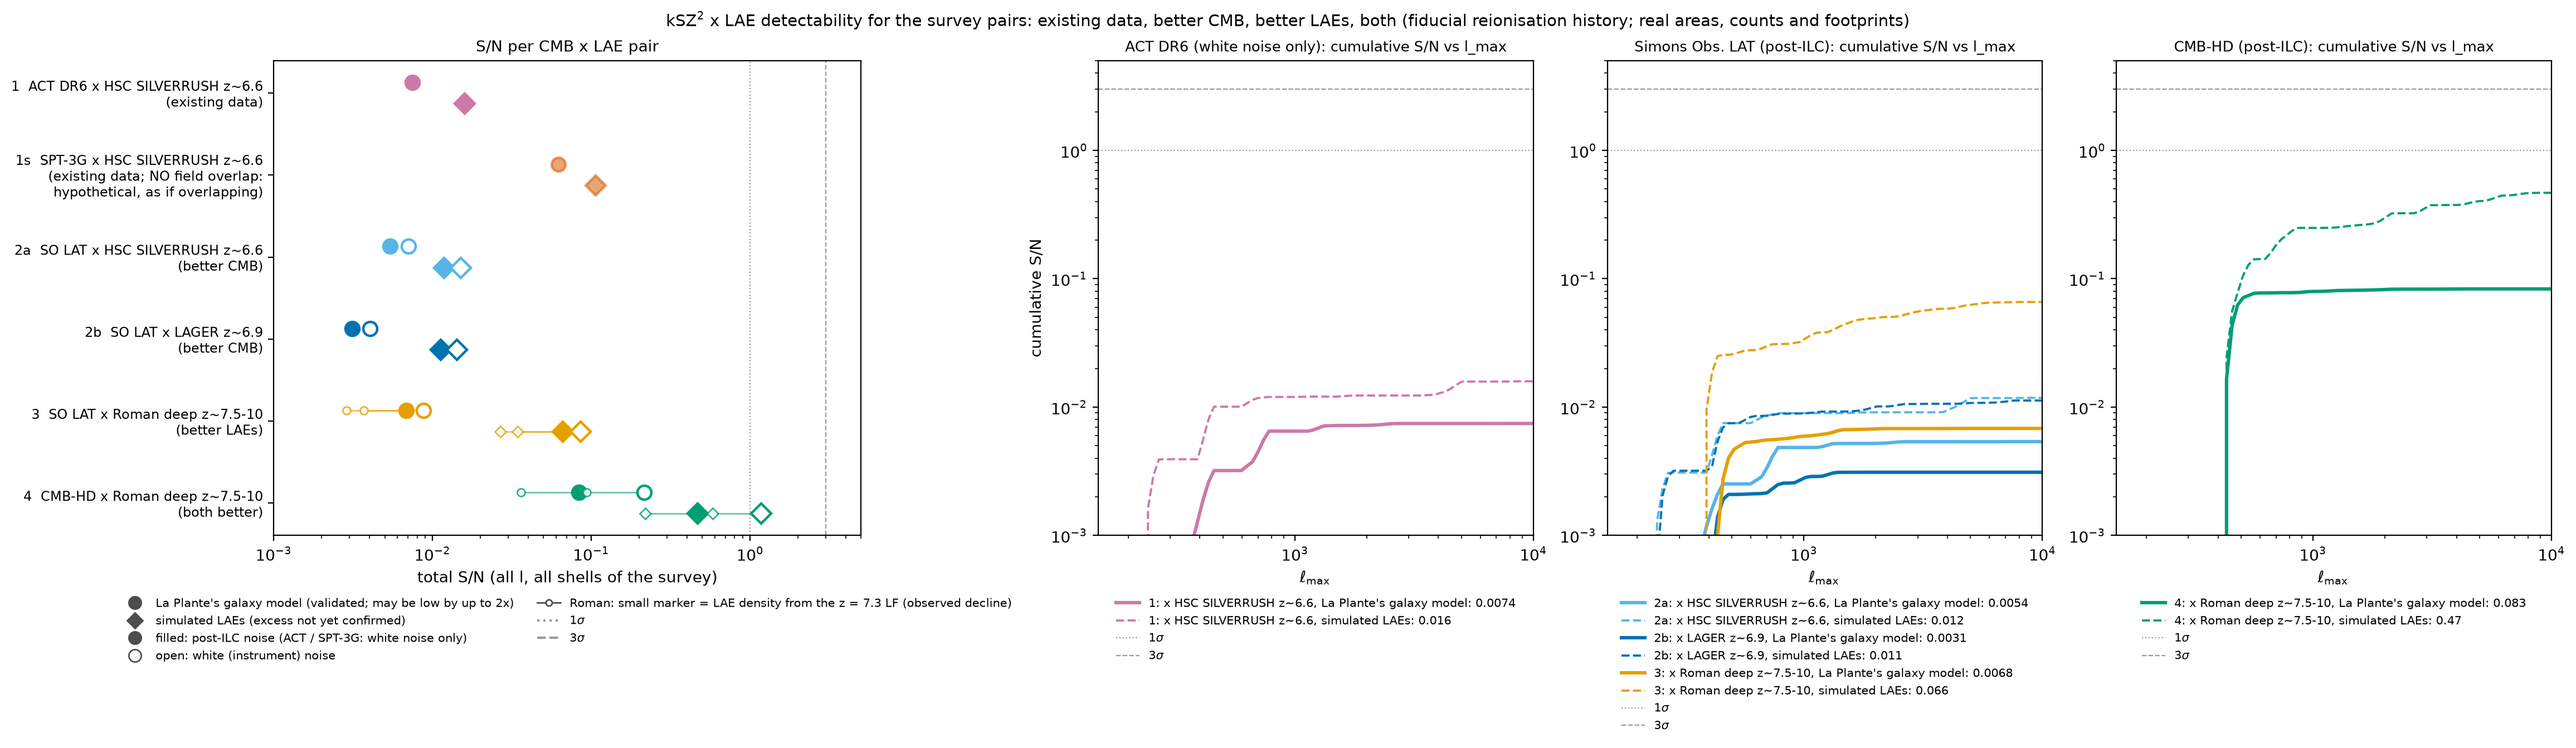
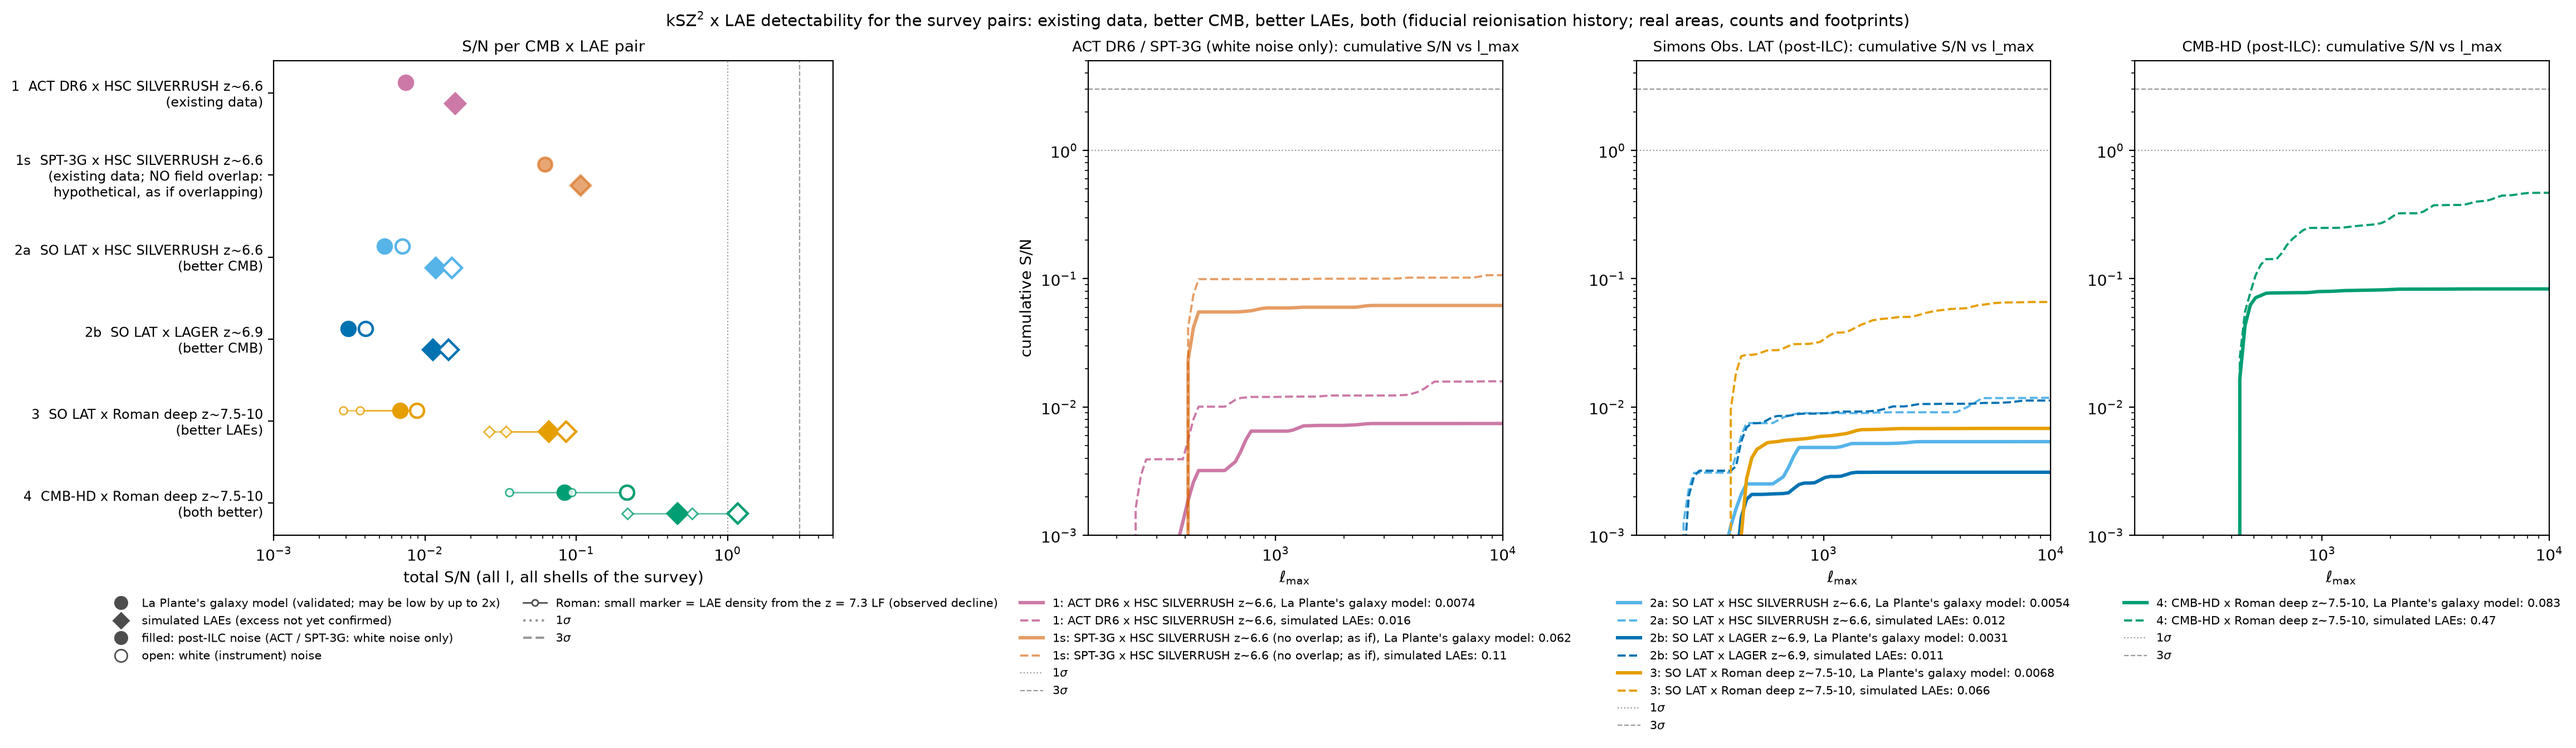
pairs figure: SPT-3G x SILVERRUSH (hypothetical) in the ACT panel

diff --git a/scripts/58_detectability_pairs.py b/scripts/58_detectability_pairs.py
@@ -181,16 +181,19 @@ def main(argv=None):
     a1.legend(handles=h, fontsize=7.5, frameon=False, loc="upper center", bbox_to_anchor=(0.5, -0.11), ncol=2)
 
     # cumulative S/N vs l_max: one panel per CMB experiment (ACT | SO LAT | CMB-HD)
-    for ax, cmb, ttl in zip(cax, ("ACT DR6", "SO", "CMB-HD"), ("ACT DR6 (white noise only)", "Simons Obs. LAT (post-ILC)", "CMB-HD (post-ILC)")):
+    for ax, cmb, ttl in zip(cax, (("ACT DR6", "SPT-3G Main"), ("SO",), ("CMB-HD",)),
+                            ("ACT DR6 / SPT-3G (white noise only)", "Simons Obs. LAT (post-ILC)", "CMB-HD (post-ILC)")):
         for key, label, exp, sname, shells, col in PAIRS:
-            if exp != cmb:
+            if exp not in cmb:
                 continue
-            nkey = "white" if exp == "ACT DR6" else "ilc"
+            nkey = "white" if exp in ("ACT DR6", "SPT-3G Main") else "ilc"
             for (sig, _), ls in zip(SIGNALS, ("-", "--")):
                 sn, cum = res[(key, sname, nkey, sig)]
                 lae = label.splitlines()[0].split(" x ")[1]
                 ax.plot(lgrid, cum, ls, color=col, lw=2.2 if ls == "-" else 1.4,
-                        label=f"{key}: x {lae}, " + ("La Plante's galaxy model" if ls == "-" else "simulated LAEs") + f": {sn:.2g}")
+                        alpha=0.6 if key in HYPOTHETICAL else 1,
+                        label=f"{key}: {label.splitlines()[0]}" + (" (no overlap; as if)" if key in HYPOTHETICAL else "") + ", "
+                              + ("La Plante's galaxy model" if ls == "-" else "simulated LAEs") + f": {sn:.2g}")
         ax.axhline(1, color="0.6", lw=0.8, ls=":", label="1$\\sigma$"); ax.axhline(3, color="0.6", lw=0.8, ls="--", label="3$\\sigma$")
         ax.set_xscale("log"); ax.set_yscale("log"); ax.set_ylim(1e-3, 5); ax.set_xlim(150, 10000)
         ax.set_xlabel(r"$\ell_{\max}$"); ax.set_title(f"{ttl}: cumulative S/N vs l_max", fontsize=9.5)
